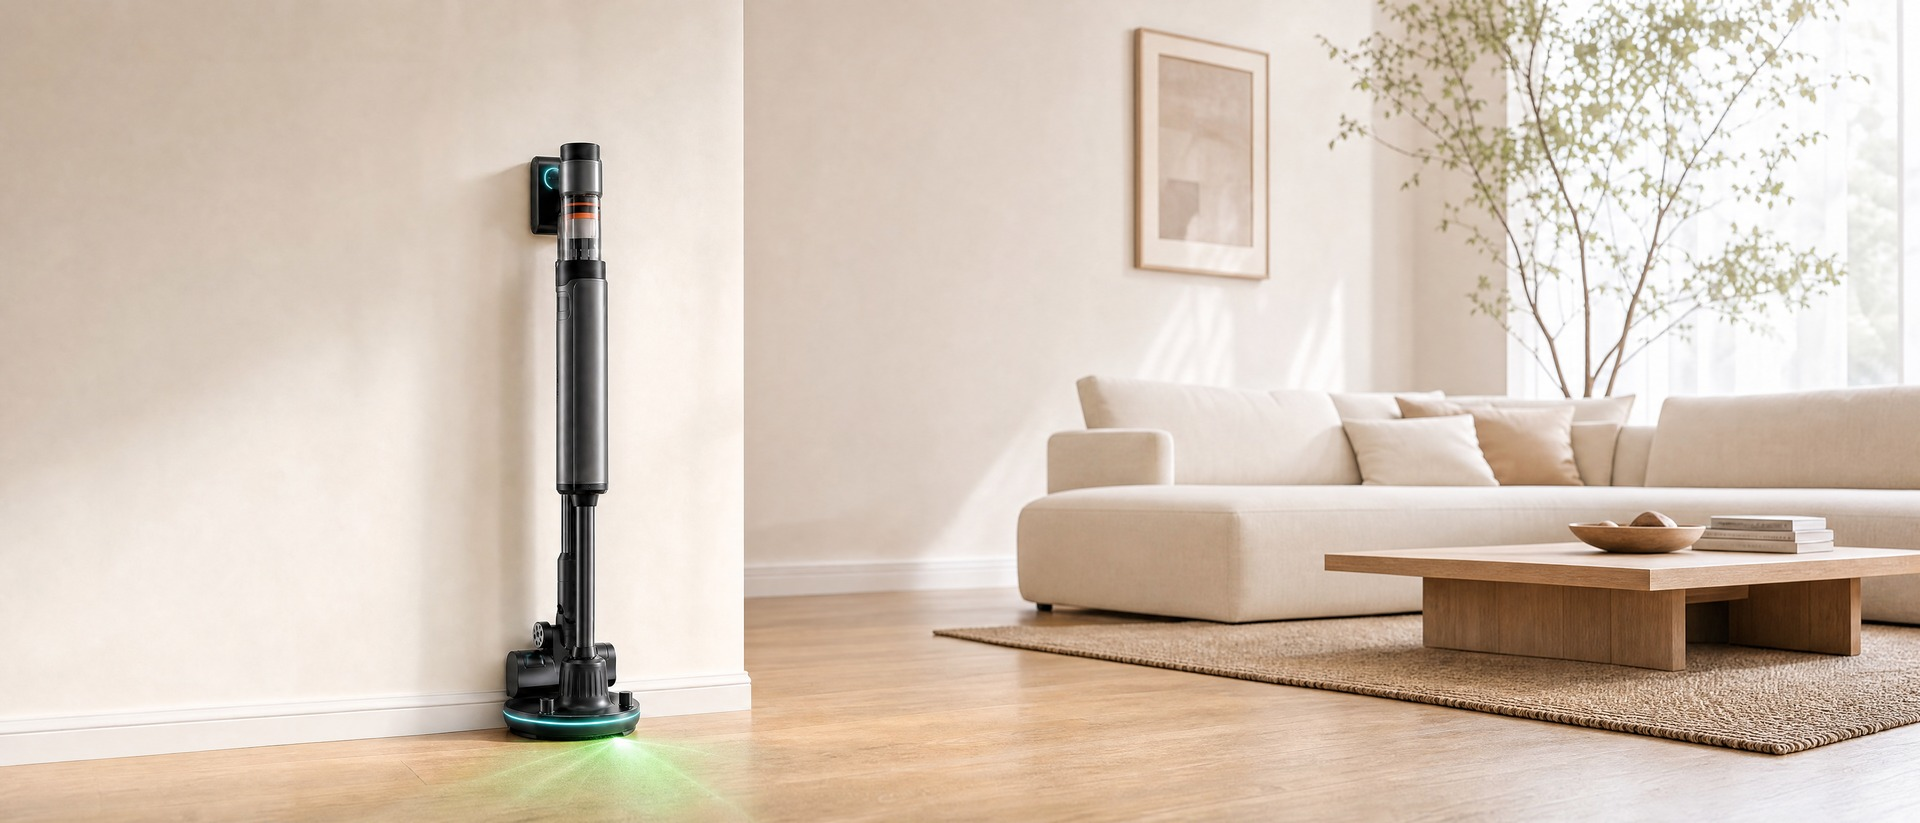
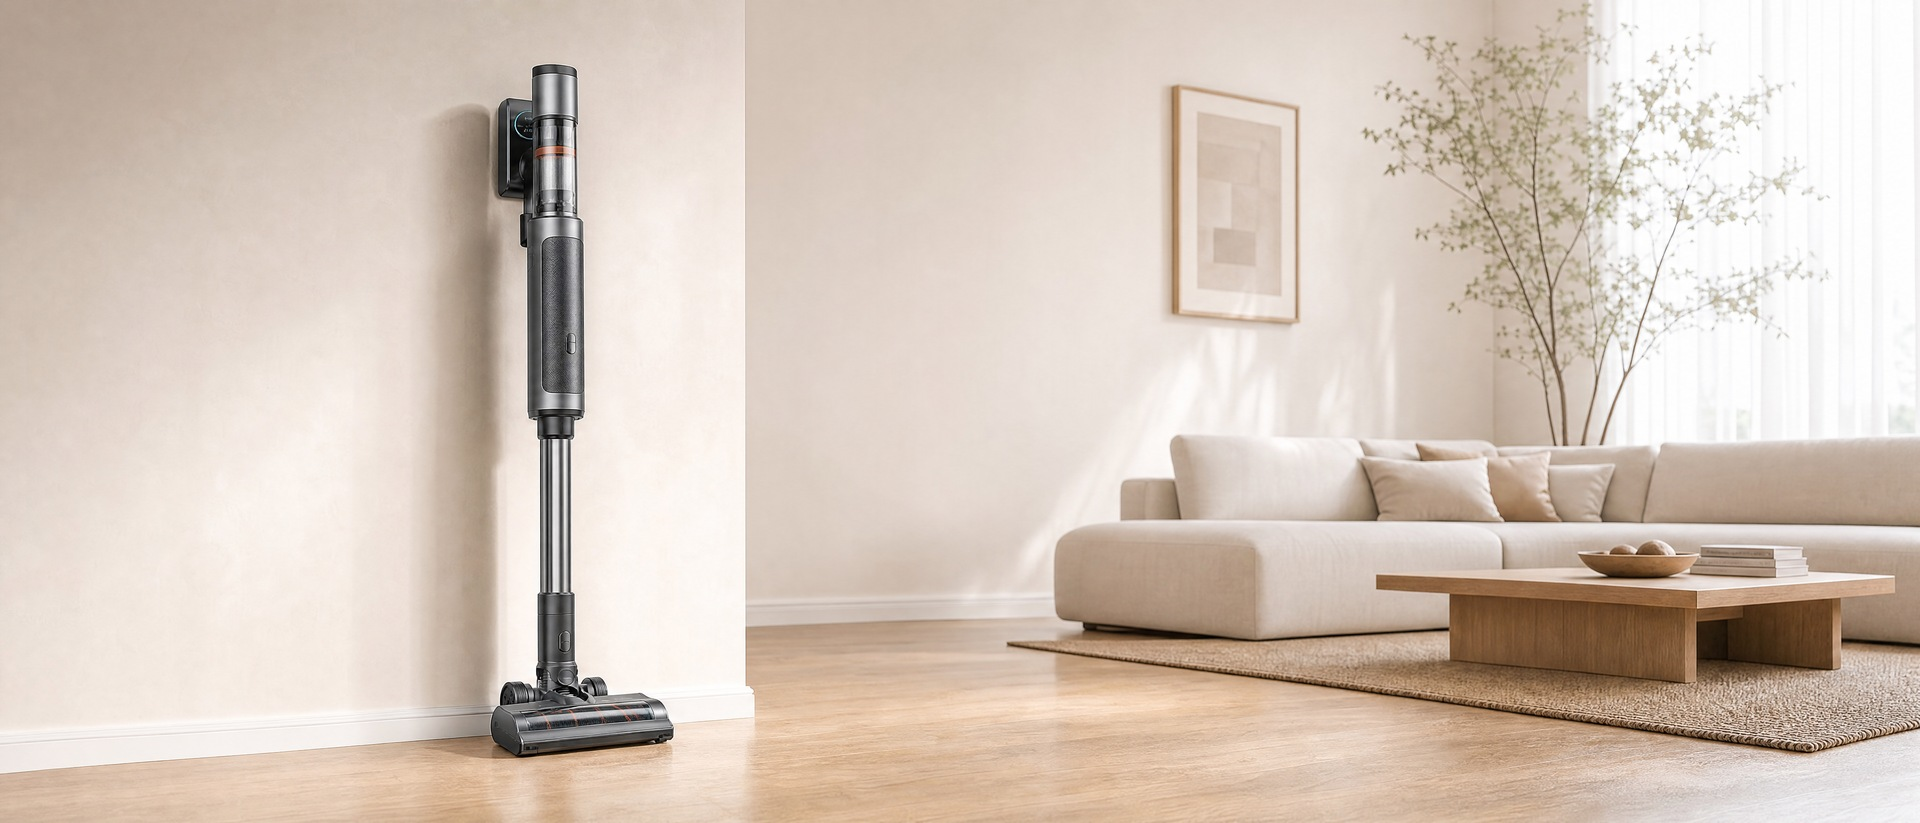
fix(slides): слайд 4 ПК - пылесос крупнее, детальнее, без зелёного луча
Гена: сильно уменьшил -> сделать больше (весь виден), детализация выше, убрать
светящийся луч. Перегенерил gpt_image_2 21:9 4k: пылесос ~82% высоты (весь в
кадре, ~8% поля сверху/снизу), рифлёный хват, диск управления, дисплей,
прозрачный пылесборник, щётка с роликом. Зелёного луча на полу нет - только тень.
Ресайз 1920x823 без кропа. В тему Shopify + ?v=.

diff --git a/preview-live.html b/preview-live.html
@@ -57,40 +57,40 @@
 <section class="glide glide-hero" data-glide-hero data-autoplay-ms="6000" style="background:#0b1418">
   <div class="glide-slides" data-glide-track>
       <div class="glide-slide is-active" data-glide-slide>
-        <div class="glide-slide-bg" style="--img:url('/slides/vacstation.jpg?v=1788423701');--img-m:url('/slides/vacstation-m.jpg?v=1788423701')"></div>
-        <img class="glide-slide-img glide-slide-img--m" src="/slides/vacstation-m.jpg?v=1788423701" alt="" loading="lazy">
+        <div class="glide-slide-bg" style="--img:url('/slides/vacstation.jpg?v=1788424088');--img-m:url('/slides/vacstation-m.jpg?v=1788424088')"></div>
+        <img class="glide-slide-img glide-slide-img--m" src="/slides/vacstation-m.jpg?v=1788424088" alt="" loading="lazy">
         <div class="glide-wrap"><div class="glide-slide-inner">
           <span class="glide-eyebrow">GlideHome Vac Station</span><h2>It empties itself. And washes its own mops</h2><p>Auto-empty, hot-water mop wash and dry — weeks of hands-off cleaning.</p>
           <div class="glide-slide-cta"><a class="glide-btn glide-btn--primary glide-btn--lg" href="#">Shop Vac Station</a><a class="glide-btn glide-btn--on-dark" href="#">See the station</a></div>
         </div></div>
       </div>
       <div class="glide-slide" data-glide-slide>
-        <div class="glide-slide-bg" style="--img:url('/slides/vac.jpg?v=1788423701');--img-m:url('/slides/vac-m.jpg?v=1788423701')"></div>
-        <img class="glide-slide-img glide-slide-img--m" src="/slides/vac-m.jpg?v=1788423701" alt="" loading="lazy">
+        <div class="glide-slide-bg" style="--img:url('/slides/vac.jpg?v=1788424088');--img-m:url('/slides/vac-m.jpg?v=1788424088')"></div>
+        <img class="glide-slide-img glide-slide-img--m" src="/slides/vac-m.jpg?v=1788424088" alt="" loading="lazy">
         <div class="glide-wrap"><div class="glide-slide-inner">
           <span class="glide-eyebrow">GlideHome Vac Slim</span><h2>Now GlideHome does your floors too</h2><p>A slim robot vacuum that sweeps, vacuums and mops in one pass. Maps the room, avoids obstacles.</p>
           <div class="glide-slide-cta"><a class="glide-btn glide-btn--primary glide-btn--lg" href="#">Shop the vacuum</a></div>
         </div></div>
       </div>
       <div class="glide-slide" data-glide-slide>
-        <div class="glide-slide-bg" style="--img:url('/slides/windowpro.jpg?v=1788423701');--img-m:url('/slides/windowpro-m.jpg?v=1788423701')"></div>
-        <img class="glide-slide-img glide-slide-img--m" src="/slides/windowpro-m.jpg?v=1788423701" alt="" loading="lazy">
+        <div class="glide-slide-bg" style="--img:url('/slides/windowpro.jpg?v=1788424088');--img-m:url('/slides/windowpro-m.jpg?v=1788424088')"></div>
+        <img class="glide-slide-img glide-slide-img--m" src="/slides/windowpro-m.jpg?v=1788424088" alt="" loading="lazy">
         <div class="glide-wrap"><div class="glide-slide-inner">
           <span class="glide-eyebrow">GlideHome Window Pro</span><h2>Full-height glass, cleaned on a planned path</h2><p>AI route mapping, edge detection and a climbing-grade safety line — it holds the pane and never misses a spot.</p>
           <div class="glide-slide-cta"><a class="glide-btn glide-btn--primary glide-btn--lg" href="#">Explore window robots</a></div>
         </div></div>
       </div>
       <div class="glide-slide" data-glide-slide>
-        <div class="glide-slide-bg" style="--img:url('/slides/stickvac.jpg?v=1788423701');--img-m:url('/slides/stickvac-m.jpg?v=1788423701')"></div>
-        <img class="glide-slide-img glide-slide-img--m" src="/slides/stickvac-m.jpg?v=1788423701" alt="" loading="lazy">
+        <div class="glide-slide-bg" style="--img:url('/slides/stickvac.jpg?v=1788424088');--img-m:url('/slides/stickvac-m.jpg?v=1788424088')"></div>
+        <img class="glide-slide-img glide-slide-img--m" src="/slides/stickvac-m.jpg?v=1788424088" alt="" loading="lazy">
         <div class="glide-wrap"><div class="glide-slide-inner">
           <span class="glide-eyebrow">GlideHome Stick V400</span><h2>Cordless power that empties itself</h2><p>190 AW suction, 50 minutes of runtime and a self-emptying dock — grab it and go, put it back clean.</p>
           <div class="glide-slide-cta"><a class="glide-btn glide-btn--primary glide-btn--lg" href="#">Shop Stick V400</a></div>
         </div></div>
       </div>
       <div class="glide-slide" data-glide-slide>
-        <div class="glide-slide-bg" style="--img:url('/slides/antimite.jpg?v=1788423701');--img-m:url('/slides/antimite-m.jpg?v=1788423701')"></div>
-        <img class="glide-slide-img glide-slide-img--m" src="/slides/antimite-m.jpg?v=1788423701" alt="" loading="lazy">
+        <div class="glide-slide-bg" style="--img:url('/slides/antimite.jpg?v=1788424088');--img-m:url('/slides/antimite-m.jpg?v=1788424088')"></div>
+        <img class="glide-slide-img glide-slide-img--m" src="/slides/antimite-m.jpg?v=1788424088" alt="" loading="lazy">
         <div class="glide-wrap"><div class="glide-slide-inner">
           <span class="glide-eyebrow">GlideHome Mite Pro</span><h2>A deeper clean for the bed you spend a third of your life in</h2><p>Tapping, UV, 15,500 Pa suction and warm-air drying — with a live dust-mite readout on the display.</p>
           <div class="glide-slide-cta"><a class="glide-btn glide-btn--primary glide-btn--lg" href="#">Shop Mite Pro</a></div>
@@ -102,13 +102,13 @@
   <div class="glide-dots" data-glide-dots></div>
 </section>
 <section class="glide glide-cats-section"><div class="glide-wrap"><div class="glide-cats">
-      <a class="glide-cat" href="#"><div class="glide-cat-art" style="background-image:url('cats/window.jpg?v=1788423701')"></div>
+      <a class="glide-cat" href="#"><div class="glide-cat-art" style="background-image:url('cats/window.jpg?v=1788424088')"></div>
       <div class="glide-cat-body"><h3>Window Robots</h3><span>Climbs the glass, cleans corner to corner</span><span class="glide-cat-go">Shop window robots →</span></div></a>
-      <a class="glide-cat" href="#"><div class="glide-cat-art" style="background-image:url('cats/vacuum.jpg?v=1788423701')"></div>
+      <a class="glide-cat" href="#"><div class="glide-cat-art" style="background-image:url('cats/vacuum.jpg?v=1788424088')"></div>
       <div class="glide-cat-body"><h3>Robot Vacuums</h3><span>Sweeps, vacuums and mops in one pass</span><span class="glide-cat-go">Shop robot vacuums →</span></div></a>
-      <a class="glide-cat" href="#"><div class="glide-cat-art" style="background-image:url('cats/scrubber.jpg?v=1788423701')"></div>
+      <a class="glide-cat" href="#"><div class="glide-cat-art" style="background-image:url('cats/scrubber.jpg?v=1788424088')"></div>
       <div class="glide-cat-body"><h3>Floor Scrubbers</h3><span>Washes and dries hard floors in one pass</span><span class="glide-cat-go">Shop scrubbers →</span></div></a>
-      <a class="glide-cat" href="#"><div class="glide-cat-art" style="background-image:url('cats/handheld.jpg?v=1788423701')"></div>
+      <a class="glide-cat" href="#"><div class="glide-cat-art" style="background-image:url('cats/handheld.jpg?v=1788424088')"></div>
       <div class="glide-cat-body"><h3>Anti-Mite & Handheld</h3><span>Deep-clean beds, sofas and floors</span><span class="glide-cat-go">Shop handheld →</span></div></a>
 </div></div></section>
 <script src="shopify/glide-home.js" defer></script>

diff --git a/preview-shopify.html b/preview-shopify.html
@@ -57,40 +57,40 @@
 <section class="glide glide-hero" data-glide-hero data-autoplay-ms="6000" style="background:#0b1418">
   <div class="glide-slides" data-glide-track>
       <div class="glide-slide is-active" data-glide-slide>
-        <div class="glide-slide-bg" style="--img:url('/slides/vacstation.jpg?v=1788423701');--img-m:url('/slides/vacstation-m.jpg?v=1788423701')"></div>
-        <img class="glide-slide-img glide-slide-img--m" src="/slides/vacstation-m.jpg?v=1788423701" alt="" loading="lazy">
+        <div class="glide-slide-bg" style="--img:url('/slides/vacstation.jpg?v=1788424088');--img-m:url('/slides/vacstation-m.jpg?v=1788424088')"></div>
+        <img class="glide-slide-img glide-slide-img--m" src="/slides/vacstation-m.jpg?v=1788424088" alt="" loading="lazy">
         <div class="glide-wrap"><div class="glide-slide-inner">
           <span class="glide-eyebrow">GlideHome Vac Station</span><h2>It empties itself. And washes its own mops</h2><p>Auto-empty, hot-water mop wash and dry — weeks of hands-off cleaning.</p>
           <div class="glide-slide-cta"><a class="glide-btn glide-btn--primary glide-btn--lg" href="#">Shop Vac Station</a><a class="glide-btn glide-btn--on-dark" href="#">See the station</a></div>
         </div></div>
       </div>
       <div class="glide-slide" data-glide-slide>
-        <div class="glide-slide-bg" style="--img:url('/slides/vac.jpg?v=1788423701');--img-m:url('/slides/vac-m.jpg?v=1788423701')"></div>
-        <img class="glide-slide-img glide-slide-img--m" src="/slides/vac-m.jpg?v=1788423701" alt="" loading="lazy">
+        <div class="glide-slide-bg" style="--img:url('/slides/vac.jpg?v=1788424088');--img-m:url('/slides/vac-m.jpg?v=1788424088')"></div>
+        <img class="glide-slide-img glide-slide-img--m" src="/slides/vac-m.jpg?v=1788424088" alt="" loading="lazy">
         <div class="glide-wrap"><div class="glide-slide-inner">
           <span class="glide-eyebrow">GlideHome Vac Slim</span><h2>Now GlideHome does your floors too</h2><p>A slim robot vacuum that sweeps, vacuums and mops in one pass. Maps the room, avoids obstacles.</p>
           <div class="glide-slide-cta"><a class="glide-btn glide-btn--primary glide-btn--lg" href="#">Shop the vacuum</a></div>
         </div></div>
       </div>
       <div class="glide-slide" data-glide-slide>
-        <div class="glide-slide-bg" style="--img:url('/slides/windowpro.jpg?v=1788423701');--img-m:url('/slides/windowpro-m.jpg?v=1788423701')"></div>
-        <img class="glide-slide-img glide-slide-img--m" src="/slides/windowpro-m.jpg?v=1788423701" alt="" loading="lazy">
+        <div class="glide-slide-bg" style="--img:url('/slides/windowpro.jpg?v=1788424088');--img-m:url('/slides/windowpro-m.jpg?v=1788424088')"></div>
+        <img class="glide-slide-img glide-slide-img--m" src="/slides/windowpro-m.jpg?v=1788424088" alt="" loading="lazy">
         <div class="glide-wrap"><div class="glide-slide-inner">
           <span class="glide-eyebrow">GlideHome Window Pro</span><h2>Full-height glass, cleaned on a planned path</h2><p>AI route mapping, edge detection and a climbing-grade safety line — it holds the pane and never misses a spot.</p>
           <div class="glide-slide-cta"><a class="glide-btn glide-btn--primary glide-btn--lg" href="#">Explore window robots</a></div>
         </div></div>
       </div>
       <div class="glide-slide" data-glide-slide>
-        <div class="glide-slide-bg" style="--img:url('/slides/stickvac.jpg?v=1788423701');--img-m:url('/slides/stickvac-m.jpg?v=1788423701')"></div>
-        <img class="glide-slide-img glide-slide-img--m" src="/slides/stickvac-m.jpg?v=1788423701" alt="" loading="lazy">
+        <div class="glide-slide-bg" style="--img:url('/slides/stickvac.jpg?v=1788424088');--img-m:url('/slides/stickvac-m.jpg?v=1788424088')"></div>
+        <img class="glide-slide-img glide-slide-img--m" src="/slides/stickvac-m.jpg?v=1788424088" alt="" loading="lazy">
         <div class="glide-wrap"><div class="glide-slide-inner">
           <span class="glide-eyebrow">GlideHome Stick V400</span><h2>Cordless power that empties itself</h2><p>190 AW suction, 50 minutes of runtime and a self-emptying dock — grab it and go, put it back clean.</p>
           <div class="glide-slide-cta"><a class="glide-btn glide-btn--primary glide-btn--lg" href="#">Shop Stick V400</a></div>
         </div></div>
       </div>
       <div class="glide-slide" data-glide-slide>
-        <div class="glide-slide-bg" style="--img:url('/slides/antimite.jpg?v=1788423701');--img-m:url('/slides/antimite-m.jpg?v=1788423701')"></div>
-        <img class="glide-slide-img glide-slide-img--m" src="/slides/antimite-m.jpg?v=1788423701" alt="" loading="lazy">
+        <div class="glide-slide-bg" style="--img:url('/slides/antimite.jpg?v=1788424088');--img-m:url('/slides/antimite-m.jpg?v=1788424088')"></div>
+        <img class="glide-slide-img glide-slide-img--m" src="/slides/antimite-m.jpg?v=1788424088" alt="" loading="lazy">
         <div class="glide-wrap"><div class="glide-slide-inner">
           <span class="glide-eyebrow">GlideHome Mite Pro</span><h2>A deeper clean for the bed you spend a third of your life in</h2><p>Tapping, UV, 15,500 Pa suction and warm-air drying — with a live dust-mite readout on the display.</p>
           <div class="glide-slide-cta"><a class="glide-btn glide-btn--primary glide-btn--lg" href="#">Shop Mite Pro</a></div>
@@ -102,13 +102,13 @@
   <div class="glide-dots" data-glide-dots></div>
 </section>
 <section class="glide glide-cats-section"><div class="glide-wrap"><div class="glide-cats">
-      <a class="glide-cat" href="#"><div class="glide-cat-art" style="background-image:url('cats/window.jpg?v=1788423701')"></div>
+      <a class="glide-cat" href="#"><div class="glide-cat-art" style="background-image:url('cats/window.jpg?v=1788424088')"></div>
       <div class="glide-cat-body"><h3>Window Robots</h3><span>Climbs the glass, cleans corner to corner</span><span class="glide-cat-go">Shop window robots →</span></div></a>
-      <a class="glide-cat" href="#"><div class="glide-cat-art" style="background-image:url('cats/vacuum.jpg?v=1788423701')"></div>
+      <a class="glide-cat" href="#"><div class="glide-cat-art" style="background-image:url('cats/vacuum.jpg?v=1788424088')"></div>
       <div class="glide-cat-body"><h3>Robot Vacuums</h3><span>Sweeps, vacuums and mops in one pass</span><span class="glide-cat-go">Shop robot vacuums →</span></div></a>
-      <a class="glide-cat" href="#"><div class="glide-cat-art" style="background-image:url('cats/scrubber.jpg?v=1788423701')"></div>
+      <a class="glide-cat" href="#"><div class="glide-cat-art" style="background-image:url('cats/scrubber.jpg?v=1788424088')"></div>
       <div class="glide-cat-body"><h3>Floor Scrubbers</h3><span>Washes and dries hard floors in one pass</span><span class="glide-cat-go">Shop scrubbers →</span></div></a>
-      <a class="glide-cat" href="#"><div class="glide-cat-art" style="background-image:url('cats/handheld.jpg?v=1788423701')"></div>
+      <a class="glide-cat" href="#"><div class="glide-cat-art" style="background-image:url('cats/handheld.jpg?v=1788424088')"></div>
       <div class="glide-cat-body"><h3>Anti-Mite & Handheld</h3><span>Deep-clean beds, sofas and floors</span><span class="glide-cat-go">Shop handheld →</span></div></a>
 </div></div></section>
 <script src="shopify/glide-home.js" defer></script>
